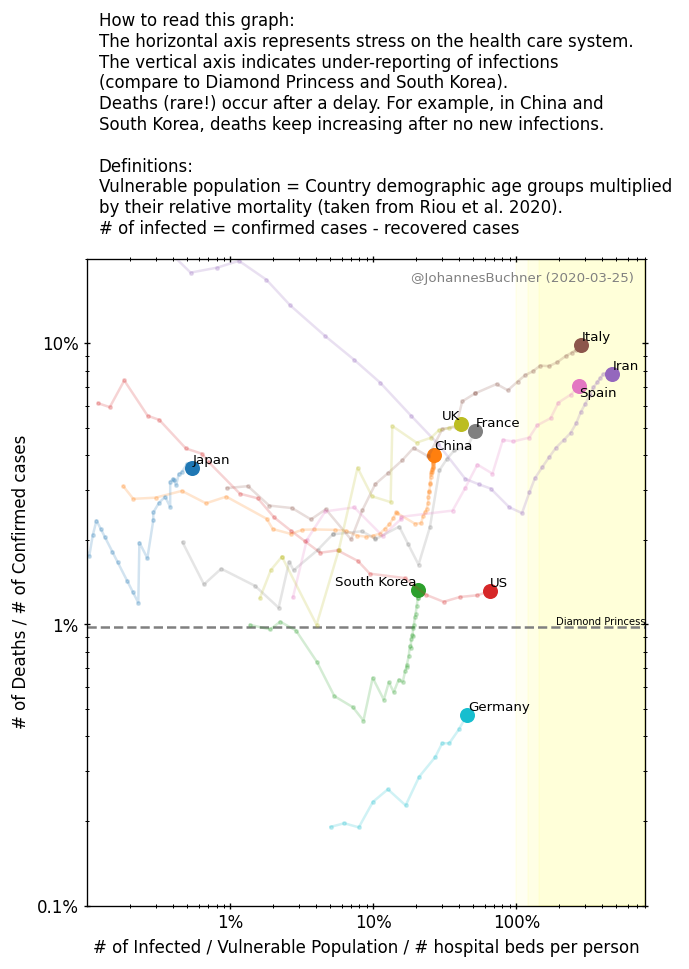
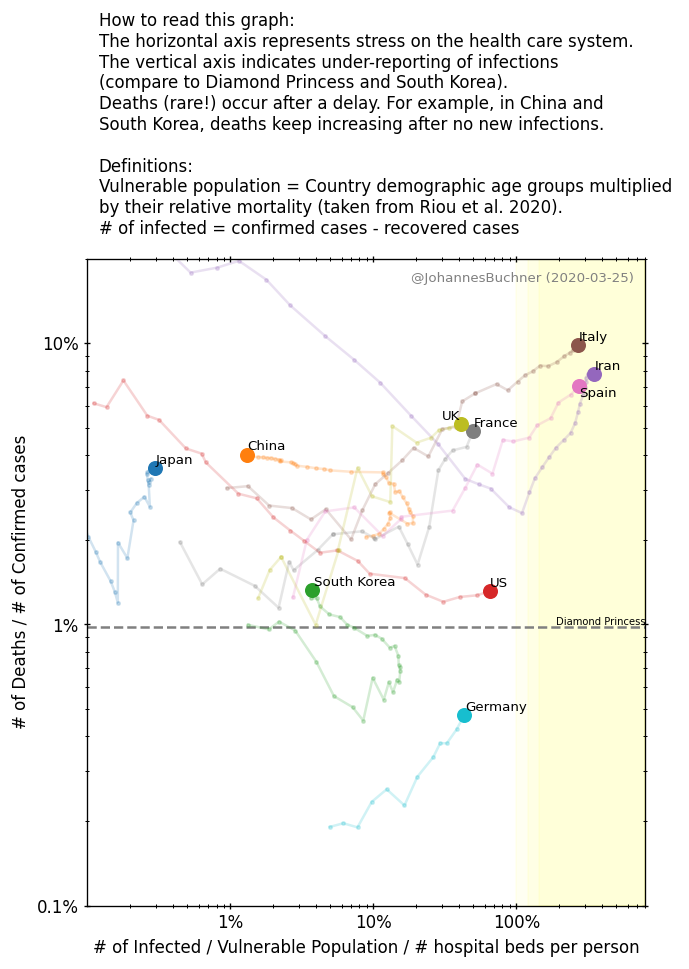
fix labeling issue

diff --git a/ratio.py b/ratio.py
@@ -233,6 +233,8 @@ for (i, row1), (_, row2) in zip(d1.iterrows(), d2.iterrows()):
 	#mask = np.logical_and(timeseries_dead >= 3, timeseries_reported / vulnerable_number.sum() > 1e-5)
 	x = timeseries_cases[mask] / vulnerable_number.sum()
 	y = timeseries_dead[mask] / timeseries_reported[mask]
+	if not (x>0).all() or not (y>0).all():
+		print("POTENTIAL DATA ISSUE:", x, y)
 	marker = 'o-' if country_brief in marked_countries else 's-'
 	size = 8 if mask.sum() > min_series else 4
 	if mask.any():
@@ -362,9 +364,10 @@ plt.xticks([1e-4, 1e-3, 1e-2], ['0.01%', '0.1%', '1%'])
 plt.yticks([1e-3, 1e-2, 1e-1, 1], ['0.1%', '1%', '10%', '100%'])
 plt.hlines(7/712, 1e-5, 2e-2, linestyles=['--'], color='gray')
 plt.text(2e-2, 7/712, 'Diamond Princess', ha='right', va='bottom', size=6)
-adjust_text(atexts)
 plt.ylim(1e-3, 0.2)
 plt.xlim(1e-5, 2e-2)
+#ax.update_datalim(list(zip(plt.xlim(), plt.ylim())))
+#adjust_text(atexts)
 #plt.legend(loc='best', ncol=3, prop=dict(size=8))
 if use_all_countries:
 	plt.savefig('results/ratio.pdf', bbox_inches='tight')

diff --git a/README.rst b/README.rst
@@ -19,7 +19,7 @@ number of deaths reported and divide by the number of infected reported
 to compare countries. This is the y-axis.
 
 Secondly, I was interested how well health care systems can cope.
-I place the number of currently infected relative to an estimate of the health care
+I place the number of currently* infected relative to an estimate of the health care
 system capacity. This is basically the number of hospital beds compared
 to the number of elderly people. I incorporated the
 population demographics (age distribution of each country),
@@ -30,6 +30,11 @@ health care system is on the x-axis.
 
 I exclude countries with a small number of deaths relative to
 their population size, because these do not give stable estimates.
+
+* update: Because the number of recovered is not reported anymore,
+   currently infected is estimated from the number of reported infections
+   14 days earlier, and crudely assuming those that have not died have 
+   recovered.
 
 Data
 ---------
